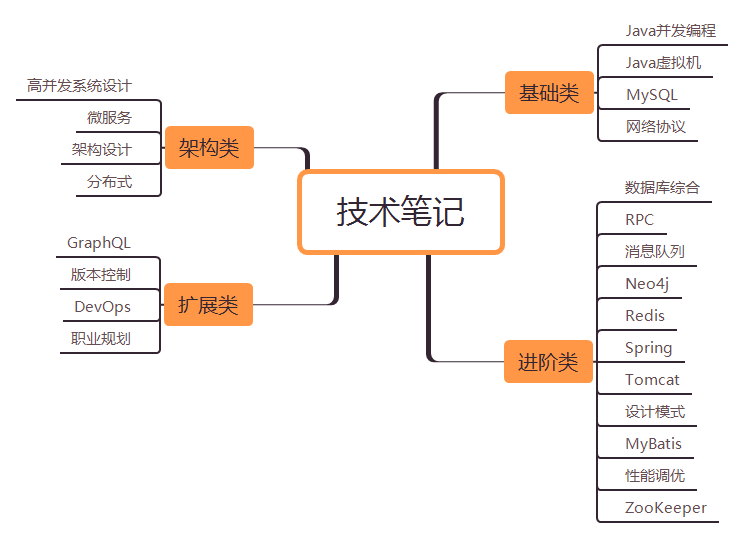
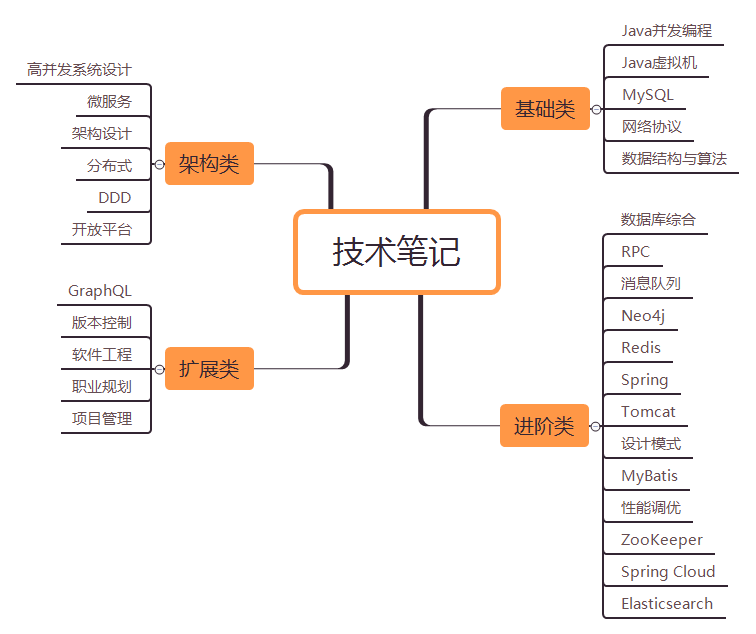
更新大纲

Changed region(s): [[0.0309, 0.0297, 0.9879, 0.9814]]

diff --git a/README.md b/README.md
@@ -1,8 +1,8 @@
 ![](技术笔记.png)
 
-# 基础类
+# 一、基础类
 
-基础类：可以是一种语言，程序员必须掌握，需要细啃的知识
+基础类：可以是一种语言，软件工程师必须掌握，需要细啃的知识
 
 **Java并发编程**
 
@@ -13,18 +13,28 @@
 **Java虚拟机**
 
 - [深入拆解Java虚拟机-基本原理](A-02%20Java虚拟机/[极客时间]-深入拆解Java虚拟机-01基本原理.md)
+- [深入浅出Java虚拟机](A-02%20Java虚拟机/[拉勾教育]-深入浅出Java虚拟机.md)
+- [《深入理解Java虚拟机》（周志明）读书笔记](A-02%20Java虚拟机/《深入理解Java虚拟机》（周志明）读书笔记.md)
 
 **MySQL**
 
 - [MySQL实战-基础篇](A-03%20MySQL/[极客时间]-MySQL实战-01基础篇.md)
+- [MySQL实战-实践篇](A-03%20MySQL/[极客时间]-MySQL实战-02实践篇.md)
+- [高性能MySQL实战-基础篇](A-03%20MySQL/[拉勾教育]-高性能MySQL实战-01基础篇.md)
 
 **网络协议**
 
 - [趣谈网络协议](A-04%20网络协议/[极客时间]-趣谈网络协议.md)
+- [透视HTTP协议-01破冰篇](A-04%20网络协议/[极客时间]透视HTTP协议-01破冰篇.md)
+- [透视HTTP协议-01破冰篇](A-04%20网络协议/[极客时间]透视HTTP协议-01破冰篇.md)
+- [透视HTTP协议-01破冰篇](A-04%20网络协议/[极客时间]透视HTTP协议-03进阶篇.md)
+- [面试题](A-04%20网络协议/面试题.md)
 
+**数据结构与算法**
 
+- [数据结构与算法之美](A-05%20数据结构与算法/[极客时间]-数据结构与算法之美.md)
 
-# 进阶类
+# 二、进阶类
 
 进阶类：某项开源技术，但需要掌握其原理的知识
 
@@ -40,7 +50,11 @@
 
 **消息队列**
 
-- [消息队列高手课](B-03%20消息队列/[极客时间]-消息队列高手课.md)
+- [消息队列高手课-基础篇](B-03%20消息队列/[极客时间]-消息队列高手课-基础篇.md)
+- [消息队列高手课-进阶篇](B-03%20消息队列/[极客时间]-消息队列高手课-进阶篇.md)
+- [Kafka核心技术与实战-入门篇](B-03%20消息队列/[极客时间]-Kafka核心技术与实战-入门篇.md)
+- [Kafka客户端实践及原理剖析](B-03%20消息队列/[极客时间]-Kafka客户端实践及原理剖析.md)
+- [阿里云-消息队列Kafka版](B-03%20消息队列/[阿里云]-消息队列Kafka版.md)
 
 **Neo4j**
 
@@ -49,10 +63,15 @@
 **Redis**
 
 - [《Redis设计与实现》读书笔记](B-05%20Redis/《Redis设计与实现》读书笔记.md)
+- [Redis-01原理、协议及使用](B-05%20Redis/Redis-01原理、协议及使用.md)
+- [Redis-02进阶](B-05%20Redis/Redis-02进阶.md)
 
 **Spring**
 
 - [Spring的IoC容器](B-06%20Spring/《Spring揭秘》第二部分-Spring的IoC容器.md)
+- [Spring AOP框架](B-06%20Spring/《Spring揭秘》第三部分-Spring AOP框架.md)
+- [Spring事务管理](B-06%20Spring/《Spring揭秘》第五部分-事务管理.md)
+- [Spring面试题-第一天](B-06%20Spring/Spring面试题-第一天.md)
 
 **Tomcat**
 
@@ -71,13 +90,22 @@
 - [性能调优实战-Java编程调优](B-10%20性能调优/[极客时间]-性能调优实战-01Java编程调优.md)
 - [性能调优实战-多线程调优](B-10%20性能调优/[极客时间]-性能调优实战-02多线程调优.md)
 - [性能调优实战-JVM性能监测及调优](B-10%20性能调优/[极客时间]-性能调优实战-03JVM性能监测及调优.md)
+- [性能调优实战](B-10%20性能调优/[网络博客]-性能调优实战.md)
 
 **ZooKeeper**
 
 - [ZooKeeper基础](B-11%20ZooKeeper/[个人整理]ZooKeeper学习笔记.md)
 - [ZooKeeper技术内幕：Leader选举](B-11%20ZooKeeper/ZooKeeper技术内幕：Leader选举.md)
 
-# 架构类
+**Spring Cloud**
+
+- [300分钟搞懂Spring Cloud](B-12%20Spring Cloud/[拉勾教育]-300分钟搞懂Spring Cloud)
+
+**Elasticsearch**
+
+- [ElasticSearch核心技术与实践](B-13%20Elasticsearch/[geek]-ElasticSearch核心技术与实践.md)
+
+# 三、架构类
 
 架构类：架构设计
 
@@ -86,18 +114,35 @@
 - [高并发系统设计-基础篇](C-01%20高并发系统设计/[极客时间]-高并发系统设计-01基础篇.md)
 - [高并发系统设计-数据库篇](C-01%20高并发系统设计/[极客时间]-高并发系统设计-02数据库篇.md)
 - [高并发系统设计-缓存篇](C-01%20高并发系统设计/[极客时间]-高并发系统设计-03缓存篇.md)
+- [高并发架构](C-01%20高并发系统设计/[advanced-java]-高并发架构.md)
+- [如何设计一个秒杀系统？](C-01%20高并发系统设计/[极客时间]-如何设计一个秒杀系统？.md)
 
 **微服务**
 
 - [从0开始学微服务](C-02%20微服务/[极客时间]-从0开始学微服务.md)
+- [微服务安全架构与实践](C-03%20架构设计/[极客时间]-01微服务安全架构与实践.md)
+- [构建OAuth2服务器](C-03%20架构设计/[极客时间]-08构建OAuth2服务器.md)
 
 **架构设计**
 
 - [从0开始学架构](C-03%20架构设计/[极客时间]-从0开始学架构.md)
+- [高可用架构](C-03%20架构设计/[advanced-java]-高可用架构.md)
 
+**分布式**
 
+- [分布式-理论篇](c-04%20分布式/分布式-01理论篇.md)
+- [分布式-协议和算法篇](c-04%20分布式/分布式-02协议和算法篇.md)
+- [分布式系统](c-04%20分布式/[advanced-java]-分布式系统.md)
 
-# 扩展类
+**DDD**
+
+- [DDD实战课-基础篇](c-05%20DDD/[极客时间]-DDD实战课-01基础篇.md)
+
+**开放平台**
+
+- [OAuth2实战-基础篇](c-06%20开放平台/[极客时间]-OAuth2实战-基础篇.md)
+
+# 四、扩展类
 
 扩展类：杂项，了解即可
 
@@ -112,7 +157,12 @@
 **软件工程**
 
 - [持续交付](D-03%20软件工程/[极客时间]-持续交付.md)
+- [如何提高研发效率？](D-03%20软件工程/[极客时间]-如何提高研发效率？.md)
 
 **职业规划**
 
 - [20180808知识地图认定](D-04%20职业规划/20180808知识地图认定--整理.md)
+
+**项目管理**
+
+- [项目管理实战训练](D-06%20项目管理/[授客学堂]-项目管理实战训练.md)
